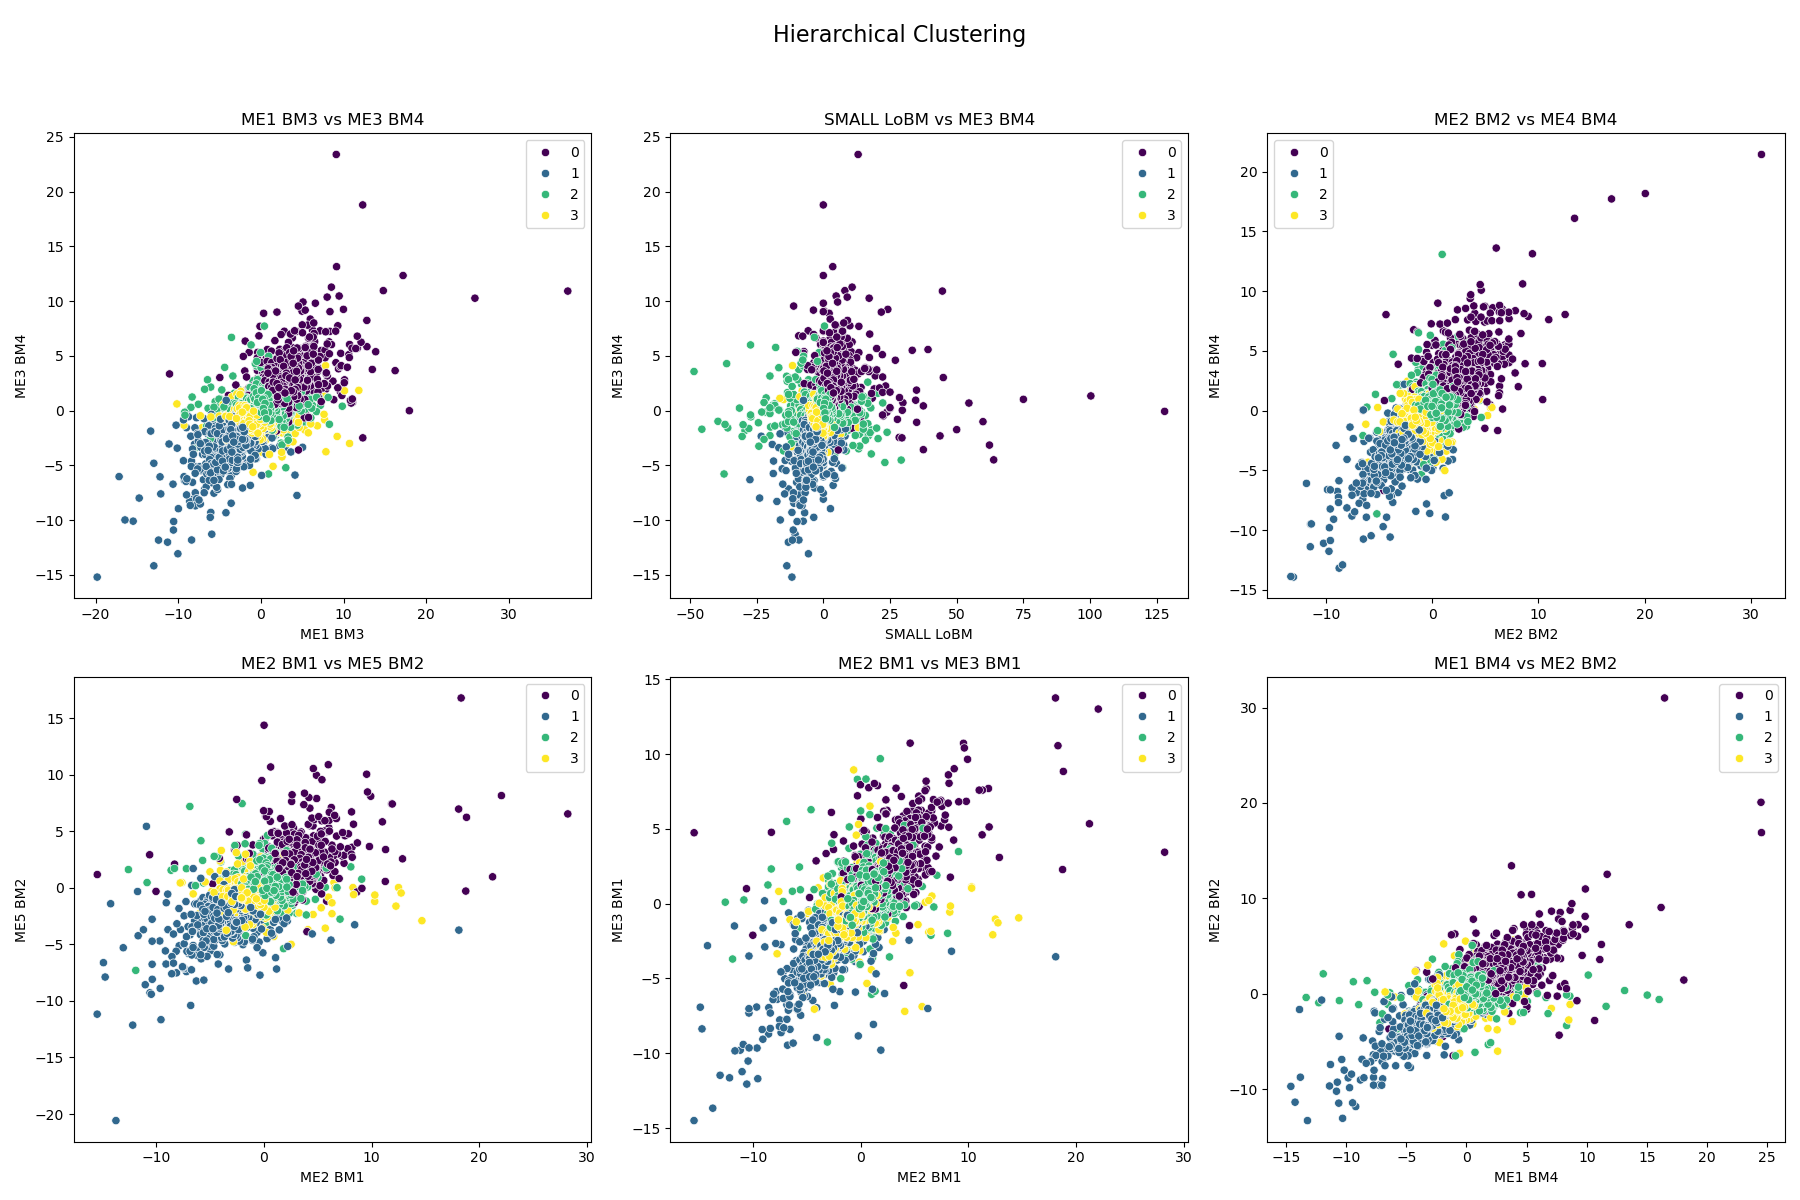
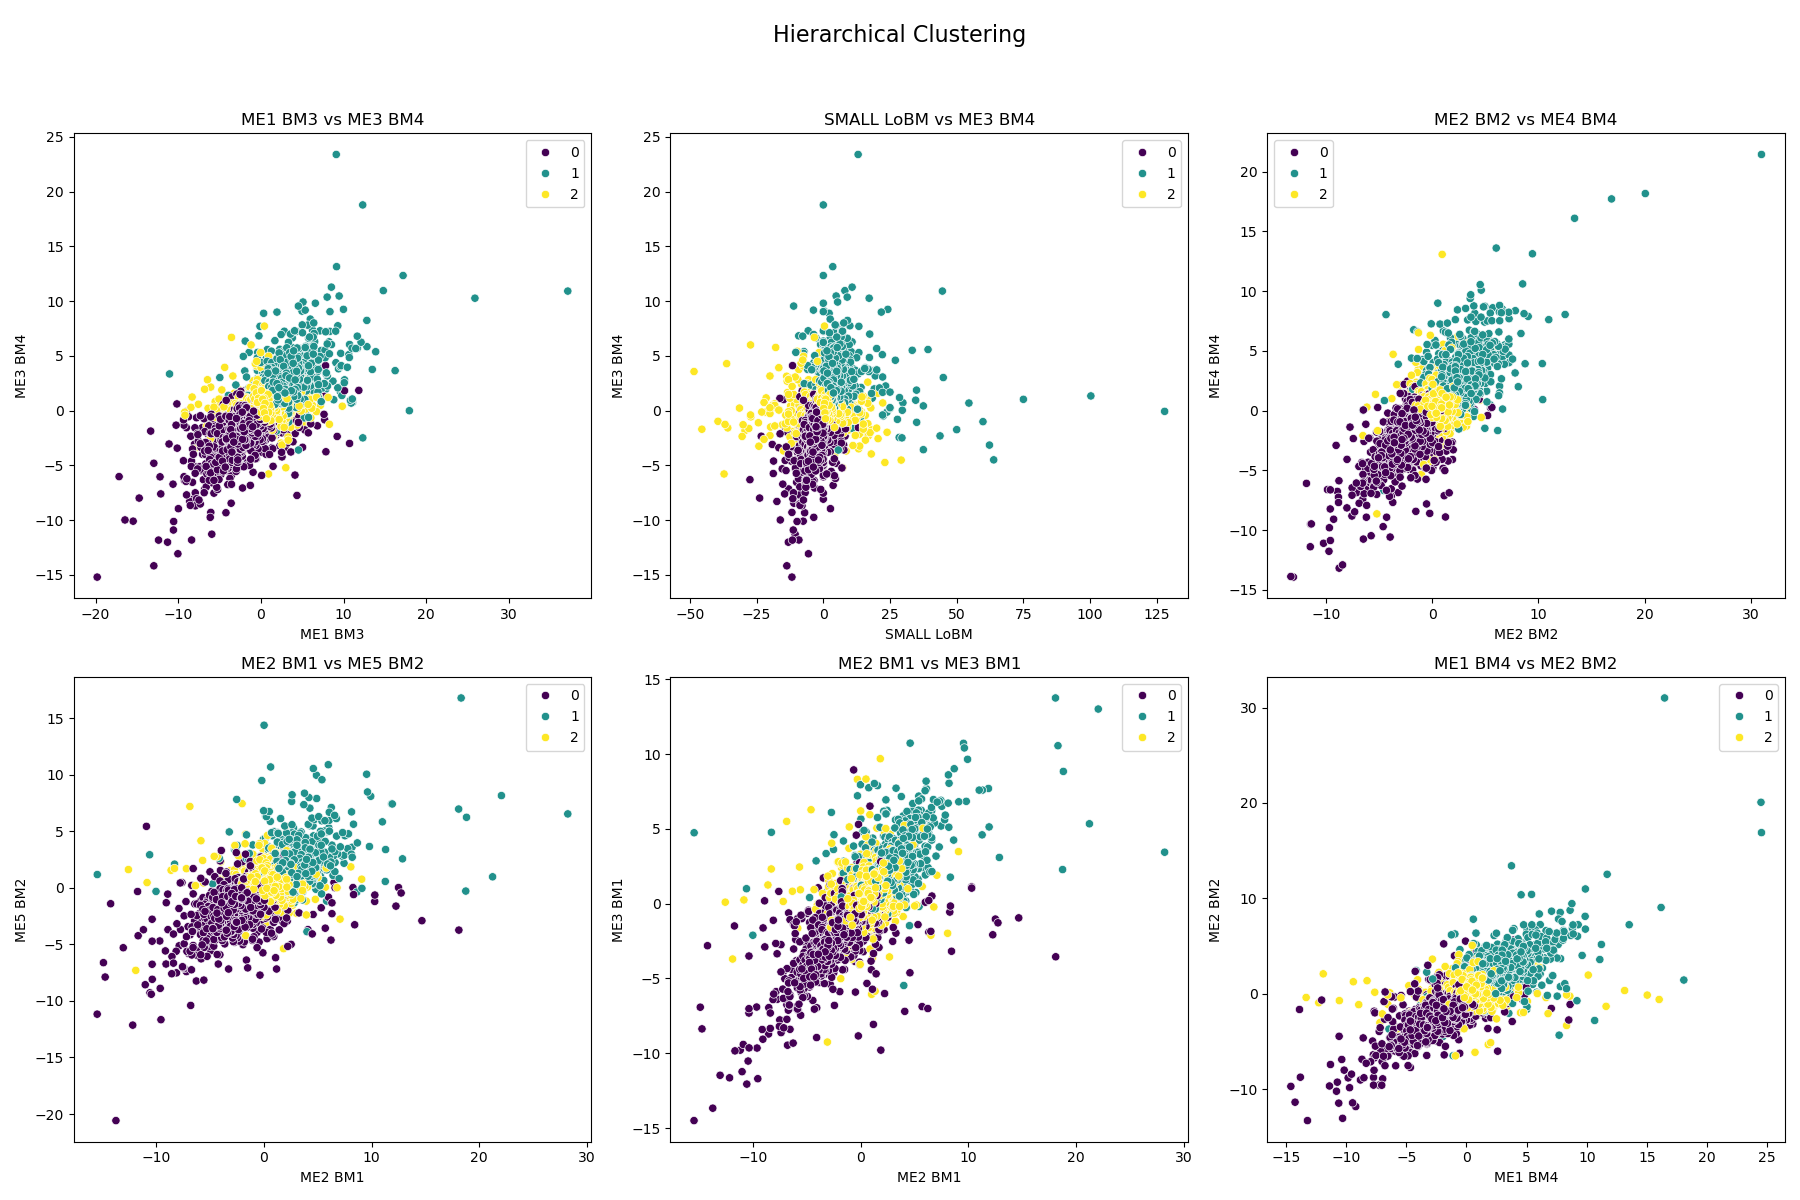
change to 3 clusters

diff --git a/HW7/main.py b/HW7/main.py
@@ -25,11 +25,11 @@ def main():
     ]
 
     # Perform hierarchical clustering
-    hier_labels = hierarchical_clustering(portfolio_data, n_clusters=4)
+    hier_labels = hierarchical_clustering(portfolio_data, n_clusters=3)
     plot_clusters(portfolio_data, hier_labels, "Hierarchical Clustering", "hierarchical_clustering.png", features)
 
     # Perform K-means clustering
-    kmeans_labels = kmeans_clustering(portfolio_data, n_clusters=4)
+    kmeans_labels = kmeans_clustering(portfolio_data, n_clusters=3)
     plot_clusters(portfolio_data, kmeans_labels, "K-means Clustering", "kmeans_clustering.png", features)
 
 
